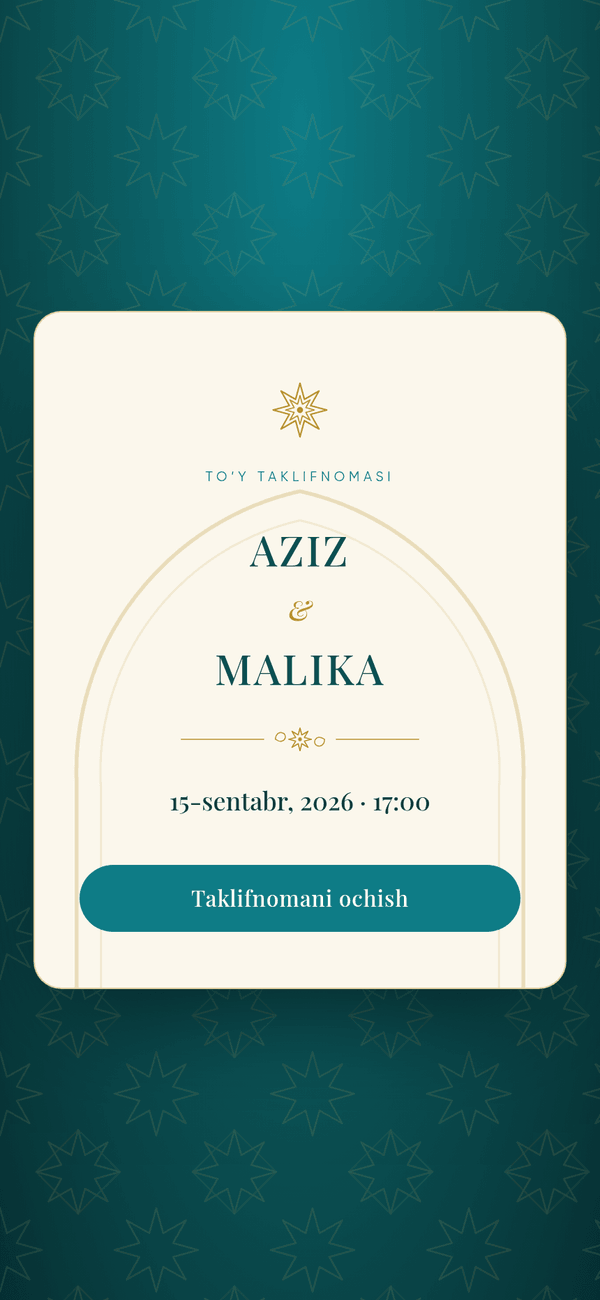
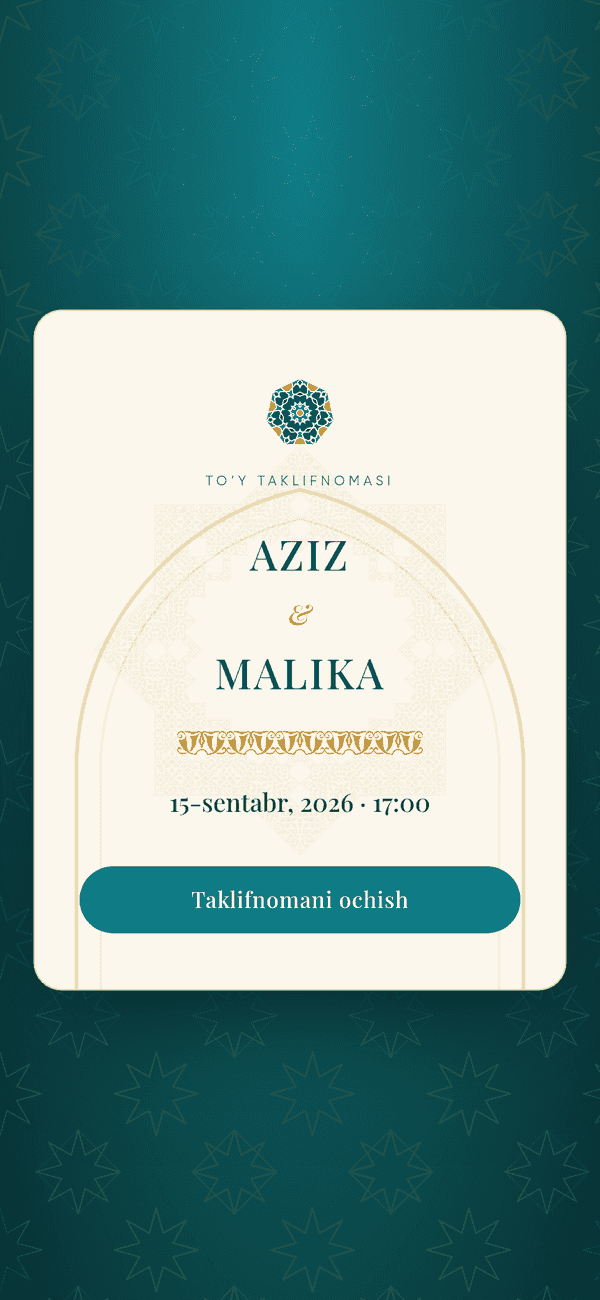
feat(milliy): haqiqiy islomiy-sharqona naqshlar (freesvg.org, CC0)
Qo'lda chizilgan shakllar o'rniga topilgan manbadan olingan haqiqiy naqshlar:
- rozetka.svg     — rangli girih rozetkasi (koshin uslubi, Samarqand palitrasi)
- girih-ramka.png — 8 burchakli girih yulduz ramkasi (oltin) — muqova suv belgisi
- islimi.png      — doiraviy islimiy/arabesk rozetka (oltin) — hero + footer
- tasma.svg       — gorizontal naqsh lentasi (oltin) — bo'lim ajratgichlari

Litsenziya: Creative Commons 0 / Public Domain (freesvg.org / OpenClipart) —
tijoratda bepul, atribut talab qilinmaydi.

Optimallashtirish: svgo + PNG-8 palitra; jami 109 KB (asl SVG'lar 2.4 MB edi).
Uzluksiz girih foni geometrik chiziladi (tayyor naqshlar seamless emas).

diff --git a/apps/web/src/templates/milliy/UzOrnaments.tsx b/apps/web/src/templates/milliy/UzOrnaments.tsx
@@ -1,9 +1,18 @@
 import type { ReactNode } from 'react';
 
 /**
- * O'zbek milliy naqshlari — SVG'da geometrik hisoblab chiziladi.
- * Girih (geometrik "tugun") va islimiy (o'simliksimon) uslublari.
- * Rasm emas, vektor: fayl kichik, istalgan rangda, har qanday ekranda tiniq.
+ * O'zbek milliy naqshlari.
+ *
+ * Bezaklar — freesvg.org / OpenClipart'dan olingan HAQIQIY islomiy-sharqona
+ * naqshlar (litsenziya: Creative Commons 0 / Public Domain — tijoratda bepul,
+ * atribut talab qilinmaydi). Fayllar: apps/web/public/images/milliy/
+ *   rozetka.svg     — rangli girih rozetkasi (koshin uslubi)
+ *   girih-ramka.png — 8 burchakli girih yulduz ramkasi (oltin)
+ *   islimi.png      — doiraviy islimiy (arabesk) rozetka (oltin)
+ *   tasma.svg       — gorizontal naqsh lentasi (oltin)
+ *
+ * GirihBackdrop esa uzluksiz takrorlanishi shart bo'lgani uchun geometrik
+ * hisoblab chiziladi (tayyor naqshlar seamless emas).
  */
 
 /** Samarqand koshini palitrasi. */
@@ -18,7 +27,7 @@ export const UZ = {
   ink: '#17383A',
 } as const;
 
-/** Ko'p burchakli yulduz nuqtalari (girih asosi — odatda 8 burchak). */
+/** Ko'p burchakli yulduz nuqtalari (uzluksiz girih foni uchun). */
 function starPoints(cx: number, cy: number, outer: number, inner: number, tips = 8): string {
   const step = Math.PI / tips;
   const out: string[] = [];
@@ -37,10 +46,7 @@ interface BackdropProps {
   readonly opacity?: number;
 }
 
-/**
- * Girih fon — 8 burchakli yulduzlar to'ri (Registon koshinlari uslubi).
- * Uzluksiz takrorlanadi; juda past opacity bilan fon to'qimasi sifatida.
- */
+/** Girih fon — 8 burchakli yulduzlar to'ri, uzluksiz takrorlanadi. */
 export function GirihBackdrop({
   id,
   className,
@@ -52,14 +58,11 @@ export function GirihBackdrop({
       <defs>
         <pattern id={id} width="112" height="112" patternUnits="userSpaceOnUse">
           <g fill="none" stroke={color} strokeWidth="1.3" strokeLinejoin="round">
-            {/* markaziy yulduz */}
             <polygon points={starPoints(56, 56, 30, 13)} />
-            {/* burchak yulduzlari — plitkalar tutashganda butun yulduz hosil bo'ladi */}
             <polygon points={starPoints(0, 0, 30, 13)} />
             <polygon points={starPoints(112, 0, 30, 13)} />
             <polygon points={starPoints(0, 112, 30, 13)} />
             <polygon points={starPoints(112, 112, 30, 13)} />
-            {/* bog'lovchi to'rt burchaklar */}
             <polygon points="56,26 86,56 56,86 26,56" opacity="0.55" />
           </g>
         </pattern>
@@ -69,76 +72,48 @@ export function GirihBackdrop({
   );
 }
 
-interface OrnamentProps {
+interface ArtProps {
   readonly className?: string;
-  readonly color?: string;
 }
 
-/** Girih yulduz medalyoni — sarlavha tepasidagi belgi. */
-export function GirihStar({ className, color = UZ.gold }: OrnamentProps): ReactNode {
-  return (
-    <svg viewBox="0 0 64 64" className={className} aria-hidden fill="none" stroke={color}>
-      <polygon points={starPoints(32, 32, 28, 12)} strokeWidth="1.6" strokeLinejoin="round" />
-      <polygon points={starPoints(32, 32, 15, 6.5)} strokeWidth="1.2" strokeLinejoin="round" />
-      <circle cx="32" cy="32" r="3.2" fill={color} stroke="none" />
-    </svg>
-  );
+/** Rangli girih rozetkasi (koshin) — sarlavha medalyoni. */
+export function Rozetka({ className }: ArtProps): ReactNode {
+  return <img src="/images/milliy/rozetka.svg" alt="" aria-hidden className={className} />;
 }
 
-/** Naqshli ajratgich — chiziq + markazda yulduz + ikki yon tomchi (bodom). */
-export function OrnamentDivider({ className, color = UZ.gold }: OrnamentProps): ReactNode {
-  return (
-    <svg viewBox="0 0 260 26" className={className} aria-hidden fill="none" stroke={color}>
-      <line x1="4" y1="13" x2="92" y2="13" strokeWidth="1" />
-      <line x1="168" y1="13" x2="256" y2="13" strokeWidth="1" />
-      {/* bodom (buta) tomchilari */}
-      <path d="M104,13 C104,7 109,4 113,7 C117,10 113,19 104,13 Z" strokeWidth="1.1" />
-      <path d="M156,13 C156,19 151,22 147,19 C143,16 147,7 156,13 Z" strokeWidth="1.1" />
-      <polygon points={starPoints(130, 13, 12, 5)} strokeWidth="1.2" strokeLinejoin="round" />
-      <circle cx="130" cy="13" r="2" fill={color} stroke="none" />
-    </svg>
-  );
+/** 8 burchakli girih yulduz ramkasi (oltin) — muqova markazi. */
+export function GirihRamka({ className }: ArtProps): ReactNode {
+  return <img src="/images/milliy/girih-ramka.png" alt="" aria-hidden className={className} />;
+}
+
+/** Doiraviy islimiy (arabesk) rozetka (oltin) — footer / urg'u. */
+export function IslimiRozetka({ className }: ArtProps): ReactNode {
+  return <img src="/images/milliy/islimi.png" alt="" aria-hidden className={className} />;
 }
 
 /**
- * Islimiy burchak — o'simliksimon chirmashgan novda (barg va g'unchalar bilan).
- * `flipX`/`flipY` orqali to'rt burchakka joylashtiriladi.
+ * Gorizontal naqsh lentasi (oltin) — bo'limlar ajratgichi.
+ * Balandlik avtomatik: className'da faqat kenglik beriladi (nisbat buzilmaydi).
  */
-export function IslimiCorner({
-  className,
-  color = UZ.gold,
-  flipX = false,
-  flipY = false,
-}: OrnamentProps & { readonly flipX?: boolean; readonly flipY?: boolean }): ReactNode {
-  const t = `${flipX ? 'scale(-1,1) ' : ''}${flipY ? 'scale(1,-1)' : ''}`.trim();
+export function Tasma({ className }: ArtProps): ReactNode {
   return (
-    <svg viewBox="0 0 120 120" className={className} aria-hidden fill="none" stroke={color}>
-      <g
-        strokeWidth="1.4"
-        strokeLinecap="round"
-        transform={t ? `translate(60,60) ${t} translate(-60,-60)` : undefined}
-      >
-        {/* asosiy chirmashuvchi novda */}
-        <path d="M6,114 C6,68 26,32 62,16 C84,6 104,8 114,14" />
-        {/* ichki hamroh chiziq */}
-        <path d="M16,114 C16,74 34,44 64,29 C82,20 98,20 108,24" opacity="0.6" />
-        {/* barglar */}
-        <path d="M30,74 C18,68 16,54 26,48 C34,56 36,68 30,74 Z" strokeWidth="1.2" />
-        <path d="M54,40 C46,28 52,16 62,15 C64,26 60,36 54,40 Z" strokeWidth="1.2" />
-        <path d="M86,20 C82,10 90,2 99,4 C98,14 92,20 86,20 Z" strokeWidth="1.2" />
-        {/* g'unchalar */}
-        <circle cx="42" cy="57" r="3" fill={color} stroke="none" />
-        <circle cx="72" cy="25" r="2.6" fill={color} stroke="none" />
-      </g>
-    </svg>
+    <img
+      src="/images/milliy/tasma.svg"
+      alt=""
+      aria-hidden
+      className={`h-auto ${className ?? ''}`}
+    />
   );
 }
 
 /**
  * Mehrob (Temuriy o'tkir ravoq) ramkasi — Registon peshtoqlari uslubi.
- * Karta yoki sarlavha atrofidagi milliy belgi.
+ * Geometrik shakl bo'lgani uchun aniq o'lchamga moslab chiziladi.
  */
-export function ArchFrame({ className, color = UZ.gold }: OrnamentProps): ReactNode {
+export function ArchFrame({
+  className,
+  color = UZ.gold,
+}: ArtProps & { readonly color?: string }): ReactNode {
   return (
     <svg
       viewBox="0 0 200 300"
@@ -148,12 +123,10 @@ export function ArchFrame({ className, color = UZ.gold }: OrnamentProps): ReactN
       stroke={color}
       preserveAspectRatio="none"
     >
-      {/* tashqi ravoq */}
       <path
         d="M8,296 L8,150 A118,118 0 0,1 100,30 A118,118 0 0,1 192,150 L192,296"
         strokeWidth="1.6"
       />
-      {/* ichki nozik ravoq */}
       <path
         d="M18,296 L18,152 A106,106 0 0,1 100,42 A106,106 0 0,1 182,152 L182,296"
         strokeWidth="0.9"

diff --git a/apps/web/src/templates/milliy/MilliyBody.tsx b/apps/web/src/templates/milliy/MilliyBody.tsx
@@ -12,24 +12,24 @@ import { MapBlock } from '@/widgets/map/MapBlock';
 import { ShareButtons } from '@/widgets/share/ShareButtons';
 import { RsvpForm } from '@/features/submit-rsvp/RsvpForm';
 import { dateParts } from '../royal/royalDate';
-import { GirihBackdrop, GirihStar, IslimiCorner, OrnamentDivider, UZ } from './UzOrnaments';
+import { GirihBackdrop, IslimiRozetka, Rozetka, Tasma, UZ } from './UzOrnaments';
 
 interface MilliyBodyProps {
   readonly invitation: Invitation;
 }
 
-/** Bo'lim sarlavhasi — girih yulduz + firuza serif + oltin ajratgich. */
+/** Bo'lim sarlavhasi — koshin rozetkasi + firuza serif + naqsh lentasi. */
 function Heading({ children }: { readonly children: ReactNode }): ReactNode {
   return (
     <div className="mb-9 flex flex-col items-center text-center">
-      <GirihStar className="h-8 w-8" color={UZ.gold} />
+      <Rozetka className="h-9 w-9" />
       <h2
         className="uz-serif mt-3 text-2xl uppercase tracking-[0.2em] sm:text-3xl"
         style={{ color: UZ.tealDeep }}
       >
         {children}
       </h2>
-      <OrnamentDivider className="mt-3 h-4 w-40" color={UZ.gold} />
+      <Tasma className="mt-3 w-36 opacity-85" />
     </div>
   );
 }
@@ -38,11 +38,11 @@ function Wrap({ children }: { readonly children: ReactNode }): ReactNode {
   return <section className="relative mx-auto w-full max-w-xl px-6 py-14">{children}</section>;
 }
 
-/** Bo'limlar orasidagi naqshli ajratgich. */
+/** Bo'limlar orasidagi naqsh lentasi. */
 function Divider(): ReactNode {
   return (
     <div className="flex justify-center py-1">
-      <OrnamentDivider className="h-5 w-52 opacity-70" color={UZ.gold} />
+      <Tasma className="w-52 opacity-70" />
     </div>
   );
 }
@@ -97,21 +97,16 @@ export function MilliyBody({ invitation }: MilliyBodyProps): ReactNode {
 
   return (
     <div className="relative" style={{ color: UZ.ink }}>
-      {/* ── Hero: islimiy burchaklar + ismlar ── */}
-      <header className="relative overflow-hidden px-6 pb-6 pt-16 text-center">
-        <IslimiCorner
-          className="pointer-events-none absolute -left-2 top-2 h-28 w-28 opacity-45 sm:h-36 sm:w-36"
-          color={UZ.gold}
-        />
-        <IslimiCorner
-          flipX
-          className="pointer-events-none absolute -right-2 top-2 h-28 w-28 opacity-45 sm:h-36 sm:w-36"
-          color={UZ.gold}
-        />
+      {/* ── Hero: islimiy rozetka suv belgisi + ismlar ── */}
+      <header className="relative overflow-hidden px-6 pb-6 pt-14 text-center">
+        {/* ismlar ortida nozik islimiy rozetka */}
+        <IslimiRozetka className="pointer-events-none absolute left-1/2 top-24 w-[21rem] max-w-none -translate-x-1/2 opacity-[0.16] sm:w-[26rem]" />
 
         <Reveal>
+          <Rozetka className="mx-auto h-14 w-14" />
+
           <p
-            className="text-[0.65rem] uppercase tracking-[0.3em]"
+            className="mt-5 text-[0.65rem] uppercase tracking-[0.3em]"
             style={{ color: UZ.teal }}
           >
             {t.welcome}
@@ -131,7 +126,7 @@ export function MilliyBody({ invitation }: MilliyBodyProps): ReactNode {
             <span className="block text-4xl sm:text-6xl">{invitation.brideName}</span>
           </h1>
 
-          <OrnamentDivider className="mx-auto mt-9 h-5 w-56" color={UZ.gold} />
+          <Tasma className="relative mx-auto mt-9 w-56" />
         </Reveal>
       </header>
 
@@ -466,21 +461,10 @@ export function MilliyBody({ invitation }: MilliyBodyProps): ReactNode {
         </Reveal>
       </Wrap>
 
-      {/* ── Footer: islimiy burchaklar + rahmat ── */}
+      {/* ── Footer: islimiy rozetka + rahmat ── */}
       <footer className="relative overflow-hidden px-6 pb-14 pt-6 text-center">
-        <IslimiCorner
-          flipY
-          className="pointer-events-none absolute -left-2 bottom-2 h-24 w-24 opacity-40"
-          color={UZ.gold}
-        />
-        <IslimiCorner
-          flipX
-          flipY
-          className="pointer-events-none absolute -right-2 bottom-2 h-24 w-24 opacity-40"
-          color={UZ.gold}
-        />
         <div className="relative">
-          <GirihStar className="mx-auto h-9 w-9" color={UZ.gold} />
+          <IslimiRozetka className="mx-auto h-24 w-24 opacity-80" />
           <p className="uz-serif mt-4 text-2xl italic" style={{ color: UZ.tealDeep }}>
             {ru ? 'Ждём вас!' : 'Sizni kutamiz!'}
           </p>

diff --git a/apps/web/src/templates/milliy/MilliyCover.tsx b/apps/web/src/templates/milliy/MilliyCover.tsx
@@ -3,7 +3,7 @@
 import { type ReactNode, useEffect, useState } from 'react';
 import { useSearchParams } from 'next/navigation';
 import { motion, AnimatePresence, useReducedMotion } from 'framer-motion';
-import { ArchFrame, GirihBackdrop, GirihStar, OrnamentDivider, UZ } from './UzOrnaments';
+import { ArchFrame, GirihBackdrop, GirihRamka, Rozetka, Tasma, UZ } from './UzOrnaments';
 
 interface MilliyCoverProps {
   readonly groom: string;
@@ -79,8 +79,11 @@ export function MilliyCover({
                 color={UZ.gold}
               />
 
+              {/* haqiqiy girih yulduz ramkasi — ismlar ortida nozik suv belgisi */}
+              <GirihRamka className="pointer-events-none absolute left-1/2 top-1/2 w-[19rem] max-w-none -translate-x-1/2 -translate-y-1/2 opacity-[0.13]" />
+
               <div className="relative">
-                <GirihStar className="mx-auto h-11 w-11" color={UZ.gold} />
+                <Rozetka className="mx-auto h-12 w-12" />
 
                 <p
                   className="mt-5 text-[0.6rem] uppercase tracking-[0.3em]"
@@ -103,7 +106,7 @@ export function MilliyCover({
                   {bride}
                 </h1>
 
-                <OrnamentDivider className="mx-auto mt-5 h-5 w-44" color={UZ.gold} />
+                <Tasma className="mx-auto mt-5 w-44 opacity-90" />
 
                 {dateLine ? (
                   <p className="uz-serif mt-5 text-lg" style={{ color: UZ.ink }}>
